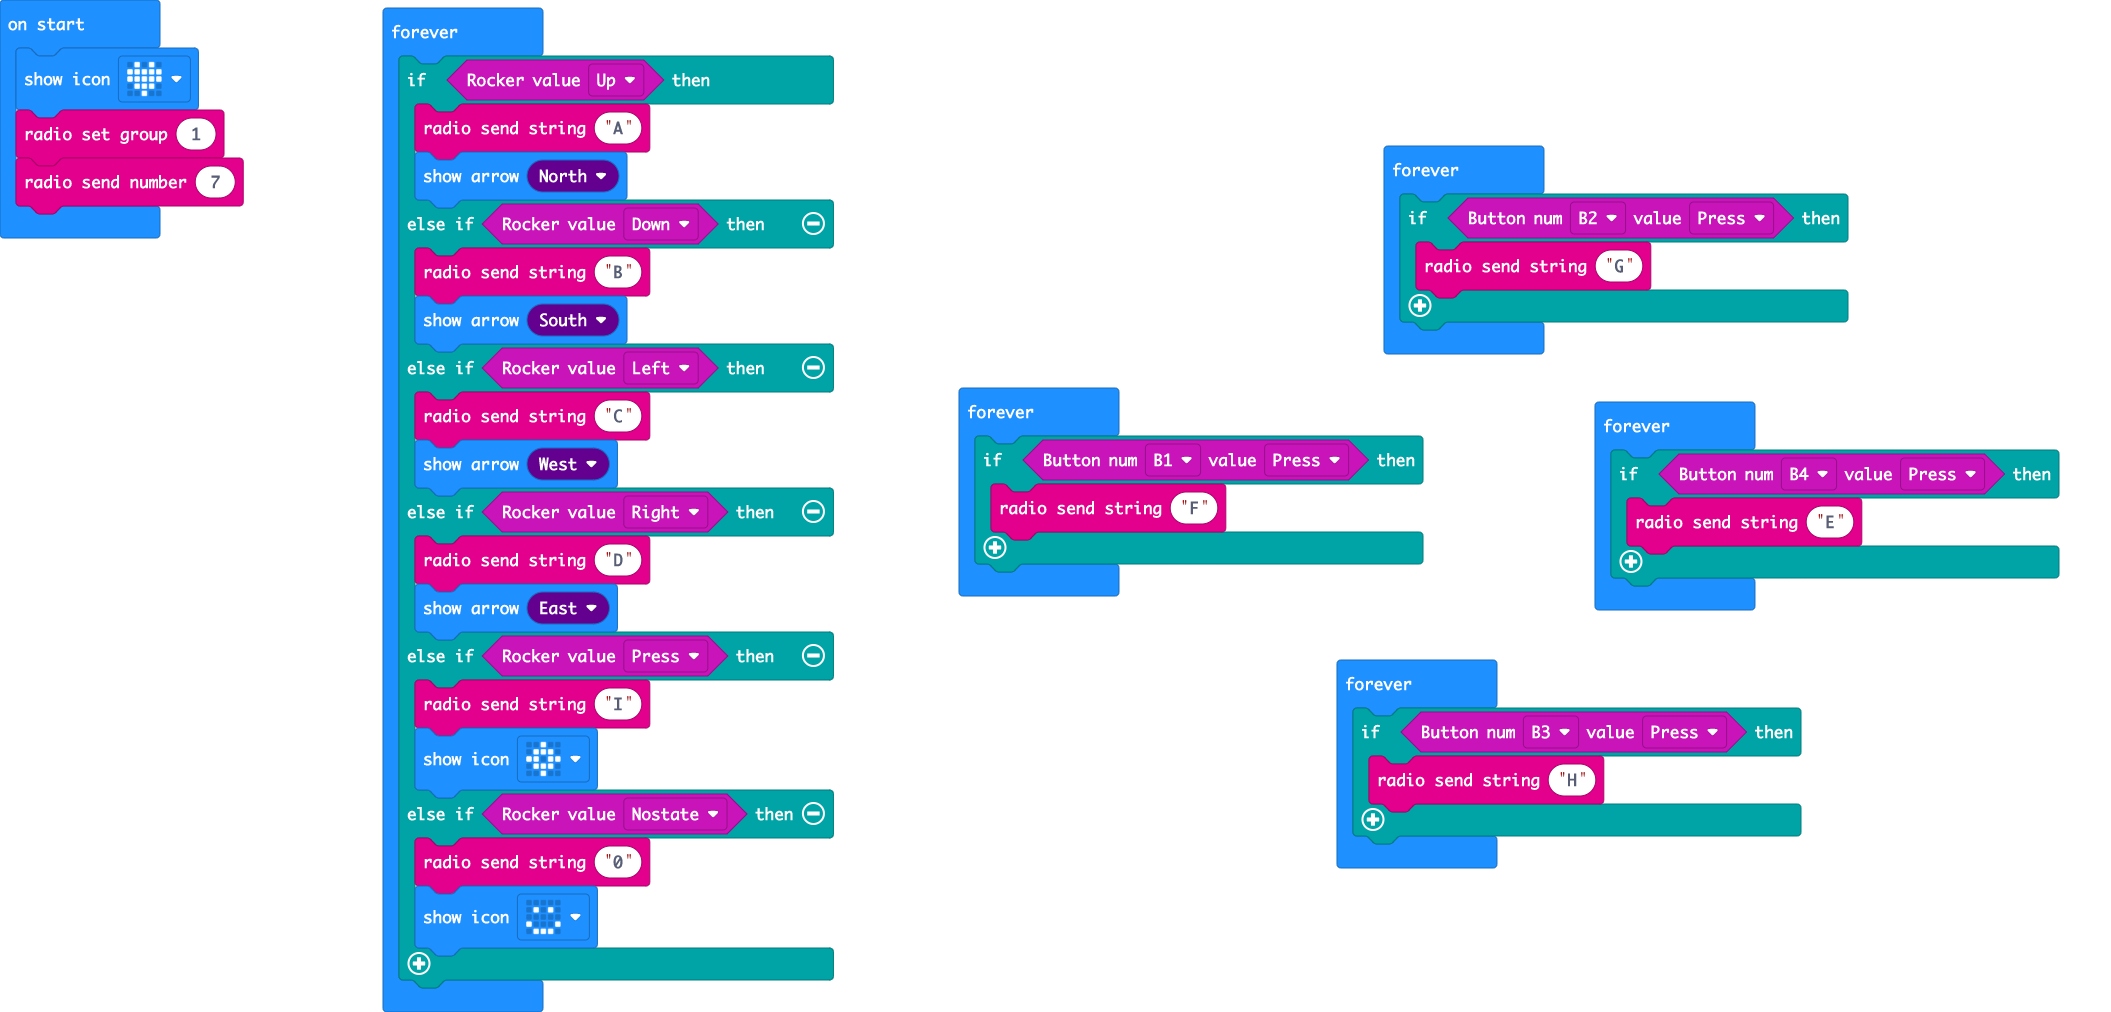
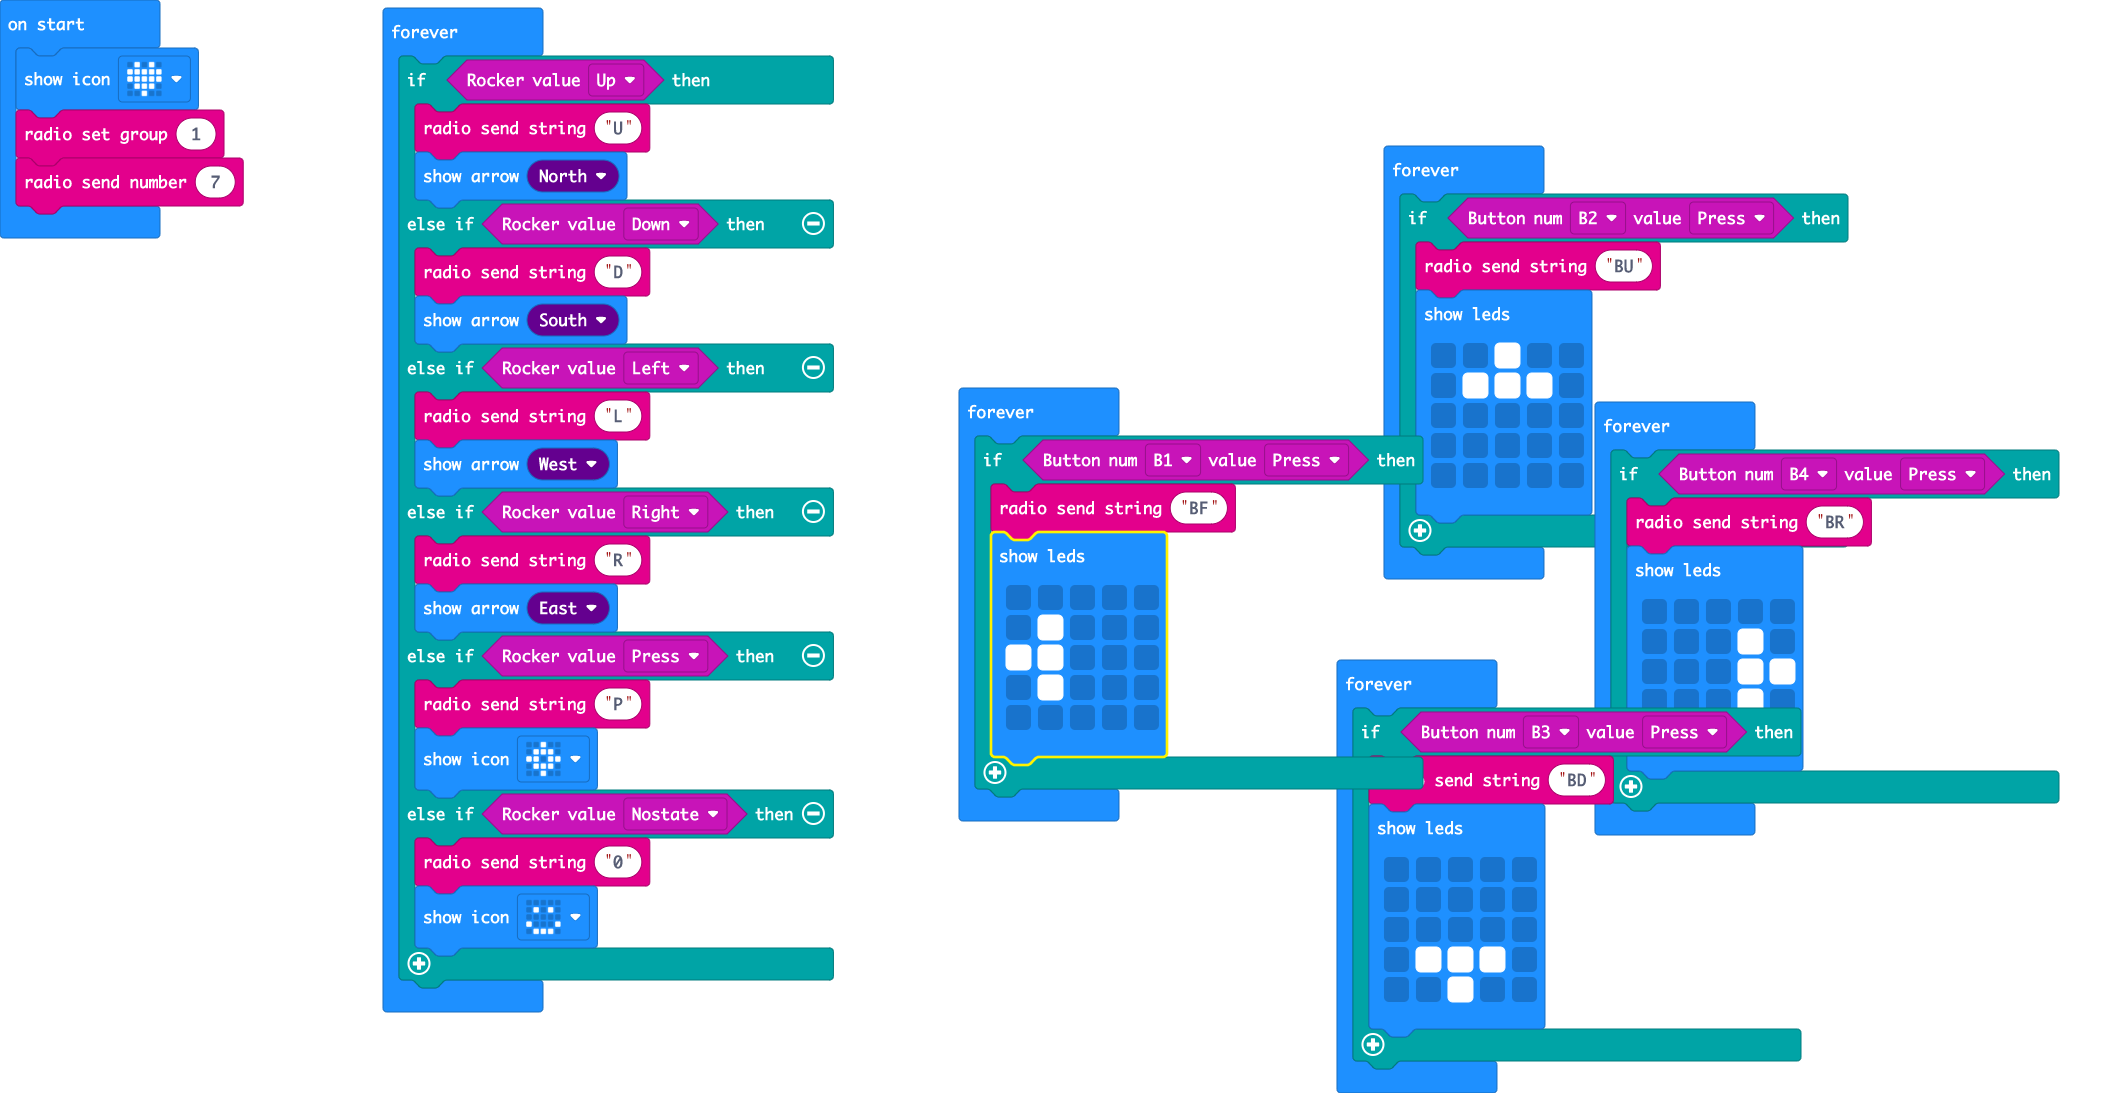
Update pxt.json, main.blocks, main.ts

diff --git a/main.ts b/main.ts
@@ -3,19 +3,19 @@ radio.setGroup(1)
 radio.sendNumber(7)
 basic.forever(function () {
     if (GHBit.Rocker(GHBit.enRocker.Up)) {
-        radio.sendString("A")
+        radio.sendString("U")
         basic.showArrow(ArrowNames.North)
     } else if (GHBit.Rocker(GHBit.enRocker.Down)) {
-        radio.sendString("B")
+        radio.sendString("D")
         basic.showArrow(ArrowNames.South)
     } else if (GHBit.Rocker(GHBit.enRocker.Left)) {
-        radio.sendString("C")
+        radio.sendString("L")
         basic.showArrow(ArrowNames.West)
     } else if (GHBit.Rocker(GHBit.enRocker.Right)) {
-        radio.sendString("D")
+        radio.sendString("R")
         basic.showArrow(ArrowNames.East)
     } else if (GHBit.Rocker(GHBit.enRocker.Press)) {
-        radio.sendString("I")
+        radio.sendString("P")
         basic.showIcon(IconNames.Target)
     } else if (GHBit.Rocker(GHBit.enRocker.Nostate)) {
         radio.sendString("0")
@@ -24,21 +24,49 @@ basic.forever(function () {
 })
 basic.forever(function () {
     if (GHBit.Button(GHBit.enButton.B2, GHBit.enButtonState.Press)) {
-        radio.sendString("G")
+        radio.sendString("BU")
+        basic.showLeds(`
+            . . # . .
+            . # # # .
+            . . . . .
+            . . . . .
+            . . . . .
+            `)
     }
 })
 basic.forever(function () {
     if (GHBit.Button(GHBit.enButton.B1, GHBit.enButtonState.Press)) {
-        radio.sendString("F")
+        radio.sendString("BF")
+        basic.showLeds(`
+            . . . . .
+            . # . . .
+            # # . . .
+            . # . . .
+            . . . . .
+            `)
     }
 })
 basic.forever(function () {
     if (GHBit.Button(GHBit.enButton.B4, GHBit.enButtonState.Press)) {
-        radio.sendString("E")
+        radio.sendString("BR")
+        basic.showLeds(`
+            . . . . .
+            . . . # .
+            . . . # #
+            . . . # .
+            . . . . .
+            `)
     }
 })
 basic.forever(function () {
     if (GHBit.Button(GHBit.enButton.B3, GHBit.enButtonState.Press)) {
-        radio.sendString("H")
+        radio.sendString("BD")
+        basic.showLeds(`
+            . . . . .
+            . . . . .
+            . . . . .
+            . # # # .
+            . . # . .
+            `)
     }
 })
